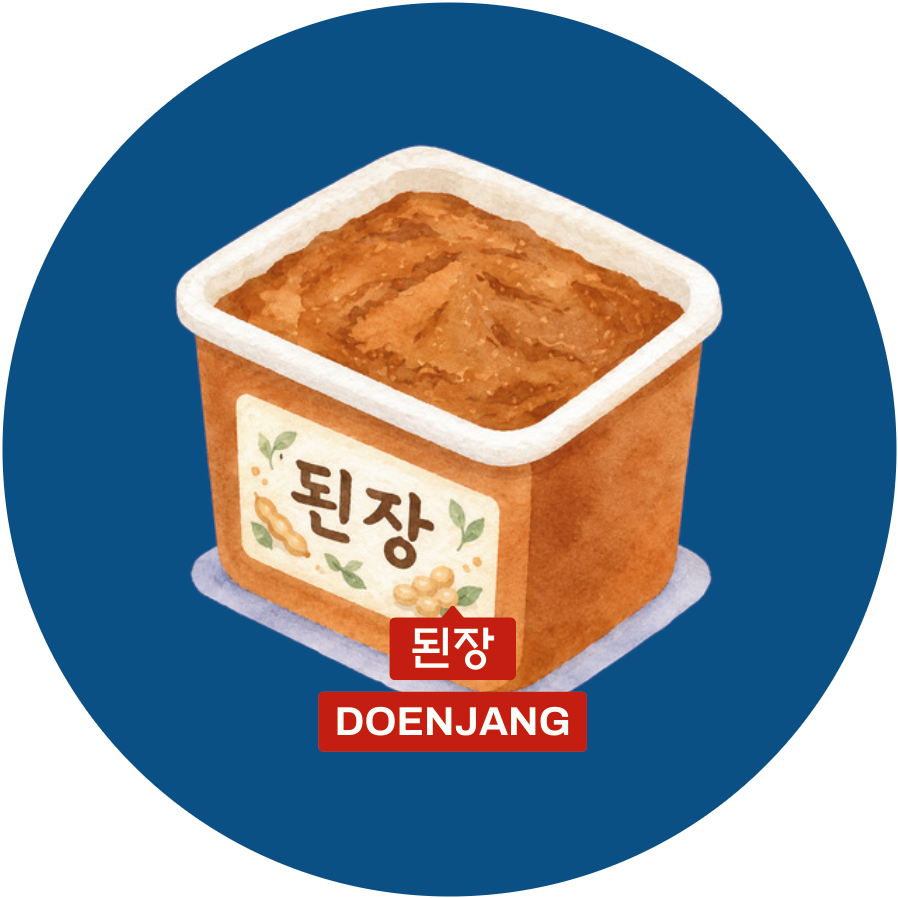
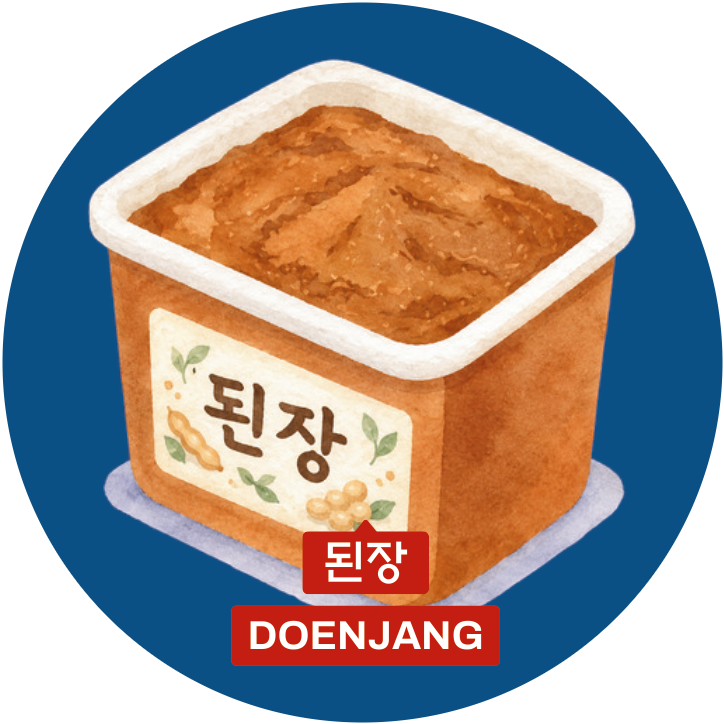
Show the new badge art larger and note that stock is limited.

diff --git a/roulette.html b/roulette.html
@@ -5,7 +5,7 @@
 <meta charset="utf-8">
 <meta name="viewport" content="width=device-width,initial-scale=1,viewport-fit=cover">
 <meta name="theme-color" content="#f4eadc">
-<title>K-FOOD Lucky Table — The Taste of Korea</title>
+<title>K-food Lucky Table — The Taste of Korea</title>
 <link rel="stylesheet" href="https://cdn.jsdelivr.net/gh/orioncactus/pretendard@v1.3.9/dist/web/static/pretendard.min.css">
 <link href="https://fonts.googleapis.com/css2?family=DM+Sans:opsz,wght@9..40,500;9..40,600;9..40,700;9..40,800&display=swap" rel="stylesheet">
 <style>
@@ -114,7 +114,7 @@ body::before{
 }
 .pin.food{top:40%}
 .pin.food img{
-  width:74px; height:74px; display:block; object-fit:contain;
+  width:92px; height:92px; display:block; object-fit:contain;
   filter:drop-shadow(0 2px 2px rgba(48,32,24,.16));
 }
 .lacquer{
@@ -210,7 +210,7 @@ body::before{
   transition:opacity .32s ease, transform .32s ease;
 }
 .result-in.hide{opacity:0; transform:translateY(6px)}
-.result-art{width:170px; height:auto}
+.result-art{width:210px; height:auto}
 .result-art img,.modal-art img,.menu-art img{width:100%; height:auto; display:block; object-fit:contain}
 .result-kicker{font-size:10px; letter-spacing:.18em; color:#d9c9b7; font-weight:800; margin-top:4px}
 .result h2{font-family:Pretendard,"DM Sans",sans-serif; font-size:34px; margin:4px 0 0; letter-spacing:-.03em; font-weight:800}
@@ -236,7 +236,7 @@ body::before{
   transition:border-color .25s ease, background .25s ease;
 }
 .menu-item.on{border-color:#c6a15a; background:#fff6e2}
-.menu-art{width:52px; height:52px; flex:none}
+.menu-art{width:64px; height:64px; flex:none}
 .menu-item b{font-size:11px; letter-spacing:.02em}
 .menu-item span{display:block; color:var(--muted); font-size:10px; margin-top:1px; font-family:Pretendard,sans-serif}
 .footer{margin-top:auto; padding-top:14px; text-align:center; color:#9a8b80; font-size:10px; line-height:1.55}
@@ -258,7 +258,7 @@ body::before{
   background:#efe4cf; z-index:0;
 }
 .modal-top{display:flex; gap:16px; align-items:center; position:relative; z-index:1}
-.modal-art{width:200px; height:auto; flex:none}
+.modal-art{width:230px; height:auto; flex:none}
 .modal.show .modal-art{animation:rise .5s cubic-bezier(.16,1,.3,1) both}
 .modal-label{font-size:10px; letter-spacing:.16em; color:var(--red); font-weight:800}
 .modal h2{font-family:Pretendard,"DM Sans",sans-serif; font-size:40px; margin:2px 0 0; letter-spacing:-.03em; line-height:1; font-weight:800}
@@ -316,7 +316,7 @@ body::before{
   .stage{margin-top:2px}
   .wheelbox{width:min(100%, calc(100dvh - 230px), 420px)}
   .pin.food{top:40%}
-  .pin.food img{width:52px; height:52px}
+  .pin.food img{width:68px; height:68px}
   .hub{width:64px; height:64px}
   .hub strong{font-size:13px}
   .spin{width:100%; min-width:0; margin-top:10px; padding:14px 16px}
@@ -326,7 +326,7 @@ body::before{
   .explain{font-size:12px}
   .menu,.footer{display:none}
   .modal-top{align-items:flex-start}
-  .modal-art{width:150px; height:auto}
+  .modal-art{width:180px; height:auto}
   .modal h2{font-size:28px}
   .modal-card{padding:18px}
 }
@@ -341,7 +341,7 @@ body::before{
   <div class="top">
     <div class="logo-area">
       <img class="brand-logo" src="assets/cccb-logo.svg" alt="Centro Cultural Coreano no Brasil">
-      <div class="title">Roleta <em>K-Food</em></div>
+      <div class="title">Roleta <em>K-food</em></div>
     </div>
   </div>
 
@@ -356,7 +356,7 @@ body::before{
       <div class="housing"></div>
       <div class="lacquer"></div>
       <div class="winlamp" id="winlamp"></div>
-      <div class="hub"><div><strong>K-FOOD</strong></div></div>
+      <div class="hub"><div><strong>K-food</strong></div></div>
     </div>
     <button class="spin" id="spin" type="button"><span class="dot"></span> <span id="spinLabel">RODAR A ROLETA</span></button>
     <p class="instruction" id="instruction">Uma vez por pessoa.</p>
@@ -366,7 +366,7 @@ body::before{
 <aside class="card right">
   <div class="host">
     <b>Uma rodada por pessoa</b>
-    <span>Gire uma vez. Mostre o resultado e retire este broche.</span>
+    <span>Gire uma vez. Mostre o resultado e retire este broche. Sujeito a disponibilidade.</span>
   </div>
 
   <div class="result" id="result" aria-live="polite">
@@ -375,13 +375,13 @@ body::before{
       <div class="result-kicker">SEU PRATO</div>
       <h2 id="resultName">Gire a roleta</h2>
       <div class="pt" id="resultPt">O broche aparece aqui.</div>
-      <div class="explain" id="resultExplain">Mostre o resultado para a equipe e retire o broche redondo.</div>
-      <div class="prize" id="resultPrize">Todos ganham um broche redondo</div>
+      <div class="explain" id="resultExplain">Mostre o resultado para a equipe e retire o broche. Sujeito a disponibilidade.</div>
+      <div class="prize" id="resultPrize">Sujeito a disponibilidade</div>
     </div>
   </div>
 
   <div class="menu">
-    <h3>MENU K-FOOD</h3>
+    <h3>MENU K-food</h3>
     <div class="menu-grid" id="menuGrid"></div>
   </div>
   <div class="footer">Centro Cultural Coreano no Brasil<br>Avenida Paulista, 460 – Bela Vista – São Paulo</div>
@@ -406,14 +406,14 @@ body::before{
 
 <script>
 const foods=[
- {key:"mandu",name:"MANDU",ko:"만두",pron:"만-두 · MAN-DU",pt:"O dumpling coreano.",desc:"Massa recheada, cozida no vapor ou frita. O mandu aparece tanto nas refeições do dia a dia quanto em celebrações.",prize:"Mostre o resultado e retire este broche."},
- {key:"ramyeon",name:"RAMYEON",ko:"라면",pron:"라-면 · RA-MYEON",pt:"O macarrão coreano de preparo rápido.",desc:"Macarrão em um caldo quente, com ingredientes por cima. É uma comida muito presente no cotidiano da Coreia.",prize:"Mostre o resultado e retire este broche."},
- {key:"soju",name:"SOJU",ko:"소주",pron:"소-주 · SO-JU",pt:"A bebida destilada mais conhecida da Coreia.",desc:"Bebida transparente, servida em copos pequenos. O soju acompanha refeições e encontros entre amigos.",prize:"Mostre o resultado e retire este broche."},
- {key:"tteok",name:"TTEOK",ko:"떡",pron:"떡 · TTEOK",pt:"O bolo de arroz coreano.",desc:"Feito de arroz, o tteok aparece em festas, feriados e também como lanche. As cores e os formatos variam.",prize:"Mostre o resultado e retire este broche."},
- {key:"doenjang",name:"DOENJANG",ko:"된장",pron:"된-장 · DOEN-JANG",pt:"A pasta fermentada de soja.",desc:"Um dos temperos básicos da cozinha coreana. O doenjang dá sabor e profundidade a sopas e refogados.",prize:"Mostre o resultado e retire este broche."},
- {key:"ganjang",name:"GANJANG",ko:"간장",pron:"간-장 · GAN-JANG",pt:"O molho de soja coreano.",desc:"Feito com soja fermentada, o ganjang tempera marinadas, caldos e muitos pratos do dia a dia.",prize:"Mostre o resultado e retire este broche."},
- {key:"gimbap",name:"GIMBAP",ko:"김밥",pron:"김-밥 · GIM-BAP",pt:"Arroz e ingredientes enrolados em alga.",desc:"Arroz e recheios coloridos são enrolados em gim e cortados em rodelas. É uma comida prática e muito popular.",prize:"Mostre o resultado e retire este broche."},
- {key:"hanbok",name:"HANBOK",ko:"한복",pron:"한-복 · HAN-BOK",pt:"A roupa tradicional coreana.",desc:"O hanbok é usado em festas, cerimônias e celebrações. As cores e o corte fazem parte da cultura coreana.",prize:"Mostre o resultado e retire este broche."}
+ {key:"mandu",name:"MANDU",ko:"만두",pron:"만-두 · MAN-DU",pt:"Bolinho de massa fina recheada.",desc:"Mandu é o bolinho de massa fina recheada, preparado no vapor, frito ou em sopas. Diferente do guioza, o mandu pode ser preparado com diversos tipos de recheio, incluindo kimchi e combinações ricas em vegetais.",prize:"Mostre o resultado e retire este broche. Sujeito a disponibilidade."},
+ {key:"ramyeon",name:"RAMYEON",ko:"라면",pron:"라-면 · RA-MYEON",pt:"O macarrão instantâneo sul-coreano.",desc:"Ramyeon é o icônico macarrão instantâneo sul-coreano, famoso por sua praticidade e variedade de sabores picantes. Diferente do ramen (lámen), frequentemente preparado de forma artesanal, o ramyeon é um produto instantâneo.",prize:"Mostre o resultado e retire este broche. Sujeito a disponibilidade."},
+ {key:"soju",name:"SOJU",ko:"소주",pron:"소-주 · SO-JU",pt:"A bebida destilada da Coreia.",desc:"Soju é a bebida destilada e transparente tradicional da Coreia, famosa por sua garrafa verde. Diferente do saquê (sake), que é uma bebida fermentada à base de arroz, o soju é um destilado com teor alcoólico mais elevado.",prize:"Mostre o resultado e retire este broche. Sujeito a disponibilidade."},
+ {key:"tteok",name:"TTEOK",ko:"떡",pron:"떡 · TTEOK",pt:"O bolo de arroz tradicional coreano.",desc:"Tteok é o bolo ou massa de arroz tradicional coreano presente em festividades e no cotidiano. Diferente do mochi, focado no bolinho de arroz glutinoso, o tteok abrange uma vasta variedade de formatos, texturas, recheios e modos de preparo.",prize:"Mostre o resultado e retire este broche. Sujeito a disponibilidade."},
+ {key:"doenjang",name:"DOENJANG",ko:"된장",pron:"된-장 · DOEN-JANG",pt:"A pasta de soja fermentada.",desc:"Doenjang é a pasta espessa de soja fermentada rica em proteínas. Diferente do missô, de fermentação curta e sabor mais suave e adocicado, o doenjang passa por longo processo de maturação, resultando em um sabor salgado e intenso.",prize:"Mostre o resultado e retire este broche. Sujeito a disponibilidade."},
+ {key:"ganjang",name:"GANJANG",ko:"간장",pron:"간-장 · GAN-JANG",pt:"O molho de soja fermentado coreano.",desc:"Ganjang é o molho de soja fermentado coreano de sabor profundo e marcante. Diferente do shoyu, feito com soja e trigo, o ganjang tradicional é produzido predominantemente com soja e passa por uma fermentação mais longa.",prize:"Mostre o resultado e retire este broche. Sujeito a disponibilidade."},
+ {key:"gimbap",name:"GIMBAP",ko:"김밥",pron:"김-밥 · GIM-BAP",pt:"Rolo de alga com arroz e recheios.",desc:"Gimbap é o rolo de alga com arroz e recheios variados de vegetais e proteínas. Diferente do sushi, temperado com vinagre, o arroz do gimbap é temperado com óleo de gergelim.",prize:"Mostre o resultado e retire este broche. Sujeito a disponibilidade."},
+ {key:"hanbok",name:"HANBOK",ko:"한복",pron:"한-복 · HAN-BOK",pt:"A roupa tradicional coreana.",desc:"Hanbok é a roupa tradicional coreana composta por partes separadas: peça superior (jeogori) e saia (chima) ou calça (baji). Diferente do kimono, peça única amarrada na cintura, o hanbok é vestido em etapas (a parte inferior primeiro) e ajustado no peito pela fita goreum.",prize:"Mostre o resultado e retire este broche. Sujeito a disponibilidade."}
 ];
 
 function svgFood(key){
@@ -547,8 +547,8 @@ function resetResult(){
  document.getElementById("resultArt").innerHTML="";
  document.getElementById("resultName").textContent="Gire a roleta";
  document.getElementById("resultPt").textContent="O broche aparece aqui.";
- document.getElementById("resultExplain").textContent="Mostre o resultado para a equipe e retire o broche redondo.";
- document.getElementById("resultPrize").textContent="Todos ganham um broche redondo";
+ document.getElementById("resultExplain").textContent="Mostre o resultado para a equipe e retire o broche. Sujeito a disponibilidade.";
+ document.getElementById("resultPrize").textContent="Sujeito a disponibilidade";
  result.classList.remove("special","flash");
  menuItems.forEach(el=>el.classList.remove("on"));
 }

diff --git a/index.html b/index.html
@@ -3,7 +3,7 @@
 <head>
     <meta charset="UTF-8">
     <meta name="viewport" content="width=device-width, initial-scale=1.0">
-    <title>Pesquisa K-Food</title>
+    <title>Pesquisa K-food</title>
     <link rel="stylesheet" href="https://cdn.jsdelivr.net/gh/orioncactus/pretendard@v1.3.9/dist/web/static/pretendard.min.css">
     <link rel="stylesheet" href="style.css">
 </head>
@@ -11,7 +11,7 @@
 <div class="app">
     <header class="header">
         <img class="brand-logo" src="assets/cccb-logo.svg" alt="Centro Cultural Coreano no Brasil">
-        <p>Pesquisa K-Food</p>
+        <p>Pesquisa K-food</p>
     </header>
 
     <div class="progress-area hidden" id="progressArea">
@@ -170,7 +170,7 @@
 
             <section class="question-card" data-question="11">
                 <div class="question-number">11</div>
-                <h2>Você viria a outro evento de K-Food?</h2>
+                <h2>Você viria a outro evento de K-food?</h2>
                 <div class="options">
                     <label><input type="radio" name="kfoodEvent" value="Com certeza"><span>Com certeza</span></label>
                     <label><input type="radio" name="kfoodEvent" value="Provavelmente sim"><span>Provavelmente sim</span></label>
@@ -196,7 +196,7 @@
         <p>Sua participação foi registrada.</p>
         <p class="success-highlight">
             Agora você pode participar da
-            <strong>K-Food Roulette!</strong>
+            <strong>K-food Roulette!</strong>
         </p>
         <button class="primary-button" type="button" onclick="goToRoulette()">
             Participar da Roleta
